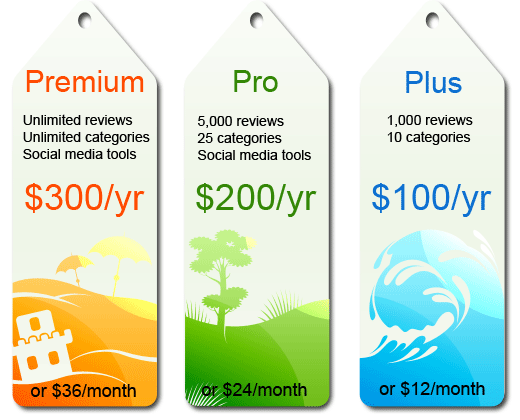
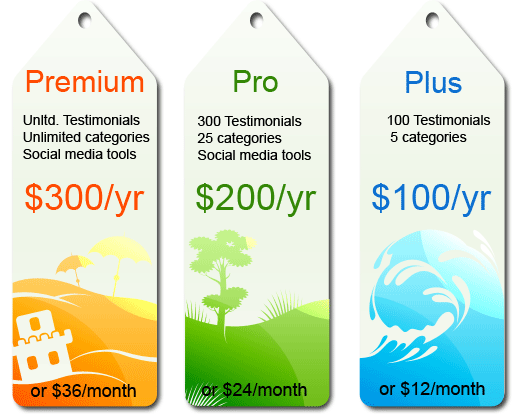
updated marketing site copy

Changed region(s): [[0.7385, 0.2476, 0.9538, 0.3405], [0.3692, 0.2786, 0.5846, 0.3095], [0.0615, 0.2786, 0.2769, 0.3095]]

diff --git a/public/static/css/marketing/pages.css b/public/static/css/marketing/pages.css
@@ -13,9 +13,10 @@ overflow:auto;
 .home-intro .pane-screenshot{
 width:460px;
 float:right;
-ackground: transparent url('/static/images/marketing/screenshot.png') no-repeat 50% 50%;
+line-height:1.5em;
 }
-.home-intro .pane-screenshot ol li{
+.home-intro .pane-screenshot ul{margin:0;}
+.home-intro .pane-screenshot ul li{
 margin-bottom:6px;
 }
 .home-intro .pane-text{
@@ -131,14 +132,16 @@ padding:20px;
 overflow:auto;
 }
 
+.demo-text{
+width:40%;
+line-height:1.5em;
+}
 .demo-text.left{
 float:left;
-width:40%;
 margin-left:60px;
 }
 .demo-text.right{
 float:right;
-width:40%;
 margin-right:60px;
 }
 .demo-text h6{

diff --git a/application/views/marketing/testimonials/faq.php b/application/views/marketing/testimonials/faq.php
@@ -2,7 +2,24 @@
 <h2 class="header">Frequently Asked Questions.</h2>
 
 <div class="faq-page">
-  <h3>1. So this works on my own website?</h3>
+  <h3>1. What's Up?</h3>
+  <div>
+    Thanks for asking! My name is Jade, I live in Southern California, USA.
+    Pluspanda is in <b>beta</b> right now so I will be continually pushing in updates.
+    Things are going pretty well, I am overall a pretty happy guy, but I do need all the help I can get!
+    If you have any feedback at all, please <a href="/contact">contact me</a>.
+    <br/><br/>
+    There is this concept when developing software (and probably a lot of other things)
+    where evolving the application means <em>removing features</em>. Doing <em>less</em>,
+    making things <em>simpler</em>, <em>easier</em>. My goal for pluspanda
+    is to take the seemingly simple, un-inspired task of "displaying customer testimionials"
+    and turn it into a serious asset to your online marketing strategies (and to prove it to you).
+    
+    <br/>Concentrating on a task seemingly so trivial is, I think, the best way to prove just how
+    powerful <em>simple</em>, <em>elegant</em> solutions can be. So we'll see what happens!
+  </div>
+  
+  <h3>2. So this works on my own website?</h3>
   <div>
   Yes, PlusPanda uses a small javascript file to dynamically and remotely
   load your entire testimonial environment.
@@ -11,7 +28,7 @@
   Put the code wherever you want your testimonials to go and everything runs transparently on that page.
   </div>
 
-  <h3>2. I already have a testimonial page, why change?</h3>
+  <h3>3. I already have a testimonial page, why change?</h3>
   <div>
     If you have a manually created testimonials page, chances are there is no
     easy way to update or add testimonials. It might be hard to sort or add category tags
@@ -20,17 +37,18 @@
     so your content is viewed in the best light.
     
     <br/>Pluspanda makes all of these features wonderfully easy to implement and <em>automatic</em> to maintain.
+    <br/>Above all, you have better things to do, and pluspanda aims to be so easy, it's fun.
   </div>
 
-  <h3>3. What about a server-side API?</h3>
+  <h3>4. What about a server-side API?</h3>
   <div>
-    Rest assured a server-side api is in the works. 
+    Yes, a server-side api is in the works. 
     Utilizing the server-side api would maintain the exact same functionality
     and would ultimately be the ideal choice since your content would be generated
     organically, improving search engine visibility.
   </div>
 
-  <h3>4. Why didn't you implement ...?</h3>
+  <h3>5. Why didn't you implement ...?</h3>
   <div>
   Well that's a fantastic idea! Please <a href="/contact">Contact Me</a> and we can work it out!
   </div>

diff --git a/application/views/marketing/testimonials/home.php b/application/views/marketing/testimonials/home.php
@@ -10,31 +10,33 @@
       
       <br/><br/>
       Utilizing customer testimonials is a proven marketing strategy.
-      <a href="/cases">Tons of major websites display testimonials.</a>
-      <br/>Now you can too!
+      <a href="/cases">Highly profitable websites display testimonials</a>,
+      <br/>now you can too!
     </div>
     
+    As of <?php echo date("d M, Y")?> Pluspanda is in public beta.
+    <br/>All beta users get a plus account valued at $100, <b>free for life</b>.
+    <br/><br/>
     <a href="/start" id="signup"></a>
   </div>
 
   <div class="pane-screenshot">
-    With Pluspanda you can:
-    <ol>
-      <li><b>Collect:</b>
+    <ul>
+      <li><b>Quickly Collect Testimonials:</b>
       <br/>Link your customers to their own personalized testmonial builder,
       or encourage customers to freely add their own.
       <br/><a href="<?php echo url::site('testimonials/add') .'/'. Kohana::config('core.apikey')?>?key=0_o&name=Brad%20Pitt&email=sample@email.com&meta=00142">Example Public Testimonial Builder</a>
       </li>
-      <li><b>Manage:</b>
+      <li><b>Conveniently Manage Testimonials:</b>
       <br/>Quickly and easily add, edit, sort and publish testimonials
       all from one centralized dashboard.
       </li>
-      <li><b>Display:</b>
+      <li><b>Professionally Display Testimonials:</b>
       <br/>Chose and customize a variety of layouts and install our widget
       on your website in 20 seconds. Once published, updates are seen instantly,
       so your testimonials are always fresh!
       </li>
-    </ol>
+    </ul>
       
      
   </div>

diff --git a/application/controllers/marketing_template.php b/application/controllers/marketing_template.php
@@ -21,7 +21,7 @@
       : 'Login';
     $this->shell->links = array(
       'home'    => 'Home',
-      'start'   => 'Get Started',
+      'start'   => 'Pricing',
       'cases'    => 'Use-Cases',
       'faq'     => 'FAQ',
       #'forum'  => 'Forum',
